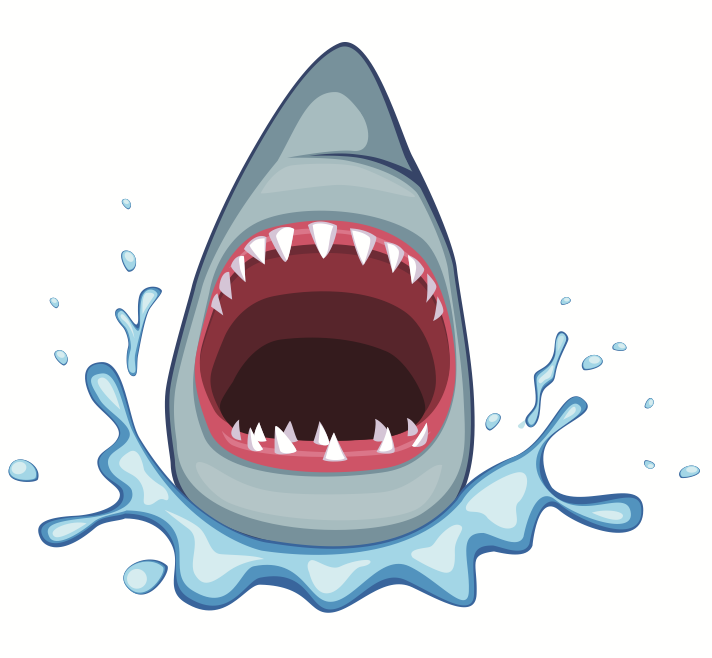
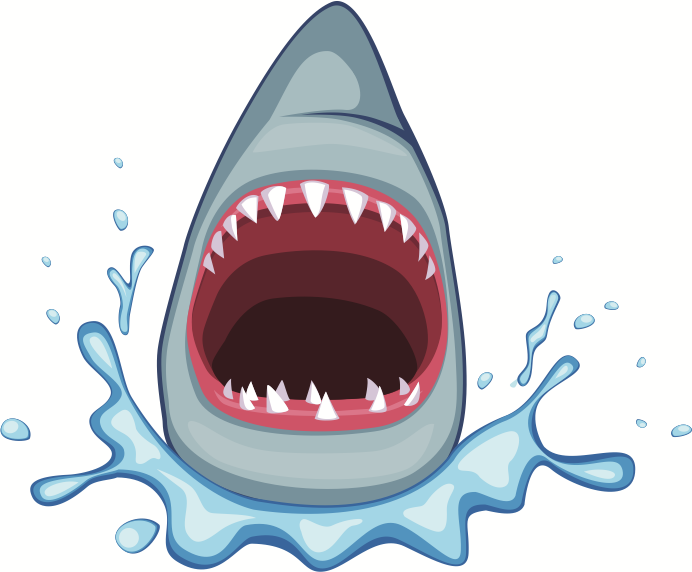
Update error page

diff --git a/error.php b/error.php
@@ -1,5 +1,5 @@
 <div class="row" style="text-align: center;">
-	<div class="span6 offset3 alert alert-error" style="margin-top: 30px;">
+	<div class="span6 offset3 alert alert-error" style="margin-top: 30px; position: fixed; opacity: .9; z-index: 10;">
 		<h1>Sorry, this page has been eaten by sharks</h1>
 		Maybe you could try another page? That one might still be around. If you want to look at some <a href="<?php bloginfo('url'); ?>">cool open-source software</a>, you could do
 		that, too; otherwise, if you're sticking around, could you feed our pets? They're not angry, they just get <i>so hungry.</i>
@@ -7,7 +7,7 @@
 </div>
 <div class="row" style="text-align: center;">
 	<div>
-		<a href="javascript:alert('Nom nom nom!');"> <img style="width: 85%; cursor: url();" src="<?php bloginfo('stylesheet_directory');?>/img/shark.png" width="85%"
+		<a href="javascript:alert('Nom nom nom!');"> <img style="width: 85%; cursor: url(); position:relative; bottom: -60px;" src="<?php bloginfo('stylesheet_directory');?>/img/shark.png" width="85%"
 			class="aligncenter size-full wp-image-2723" />
 		</a>
 	</div>
